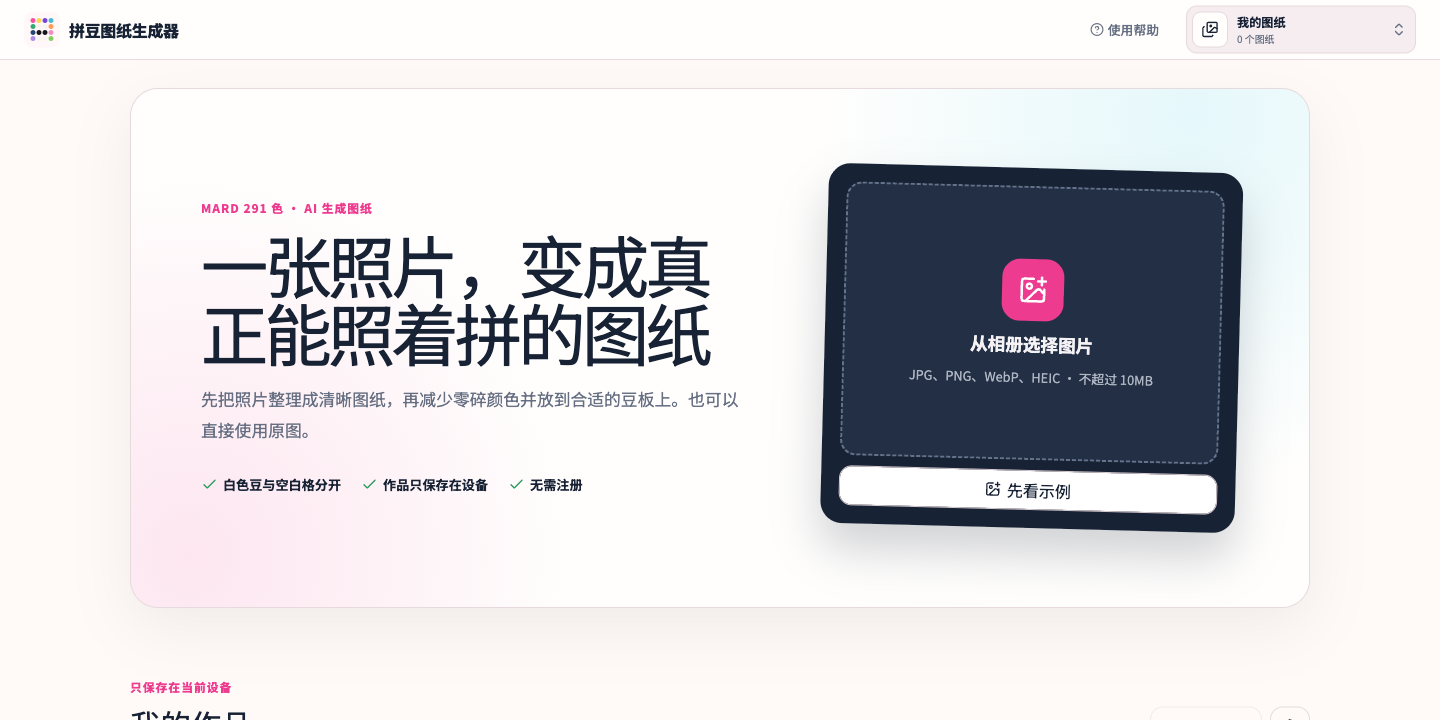
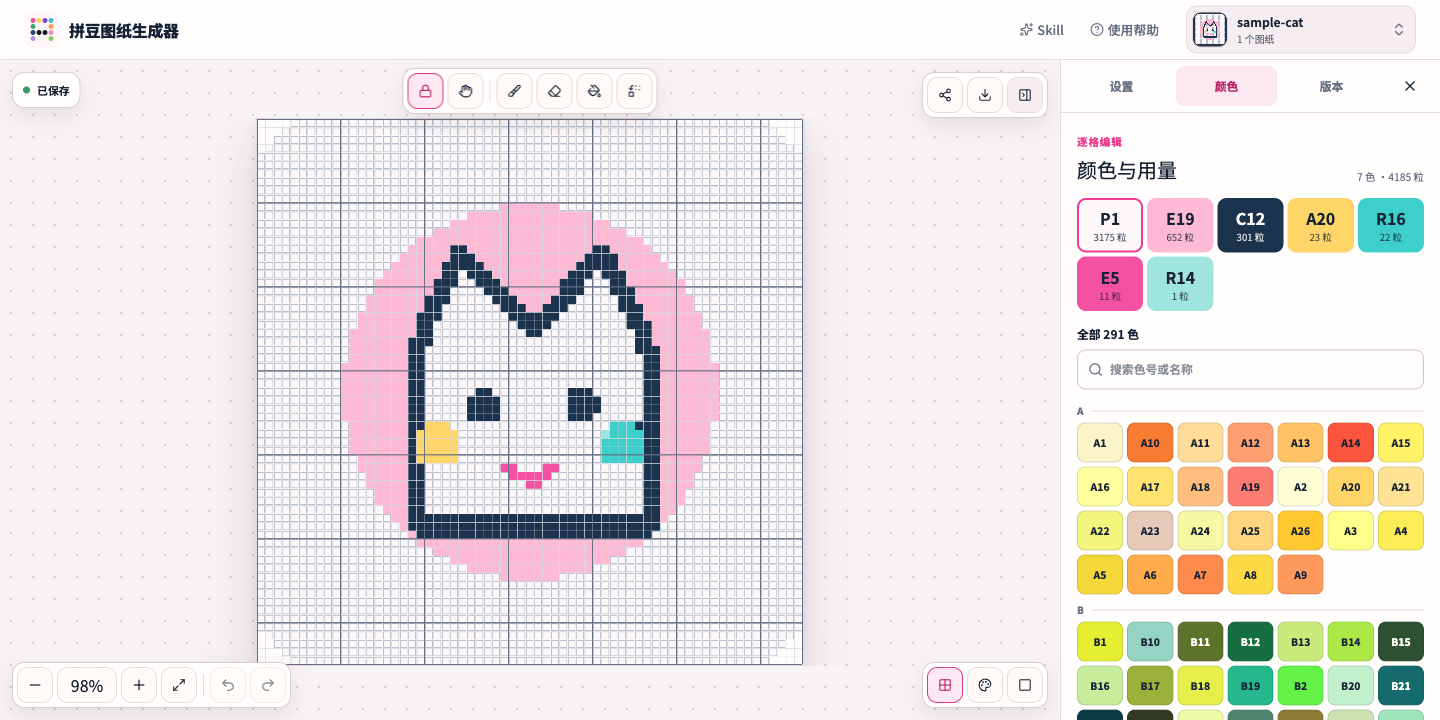
Update README editor screenshot

diff --git a/README.md b/README.md
@@ -18,7 +18,7 @@
 
 <p align="center">
   <a href="https://pindou.kuizuo.me">
-    <img src="./public/readme/home.png" alt="拼豆图纸生成器主页">
+    <img src="./public/readme/home.png" alt="拼豆图纸编辑页面">
   </a>
 </p>
 
